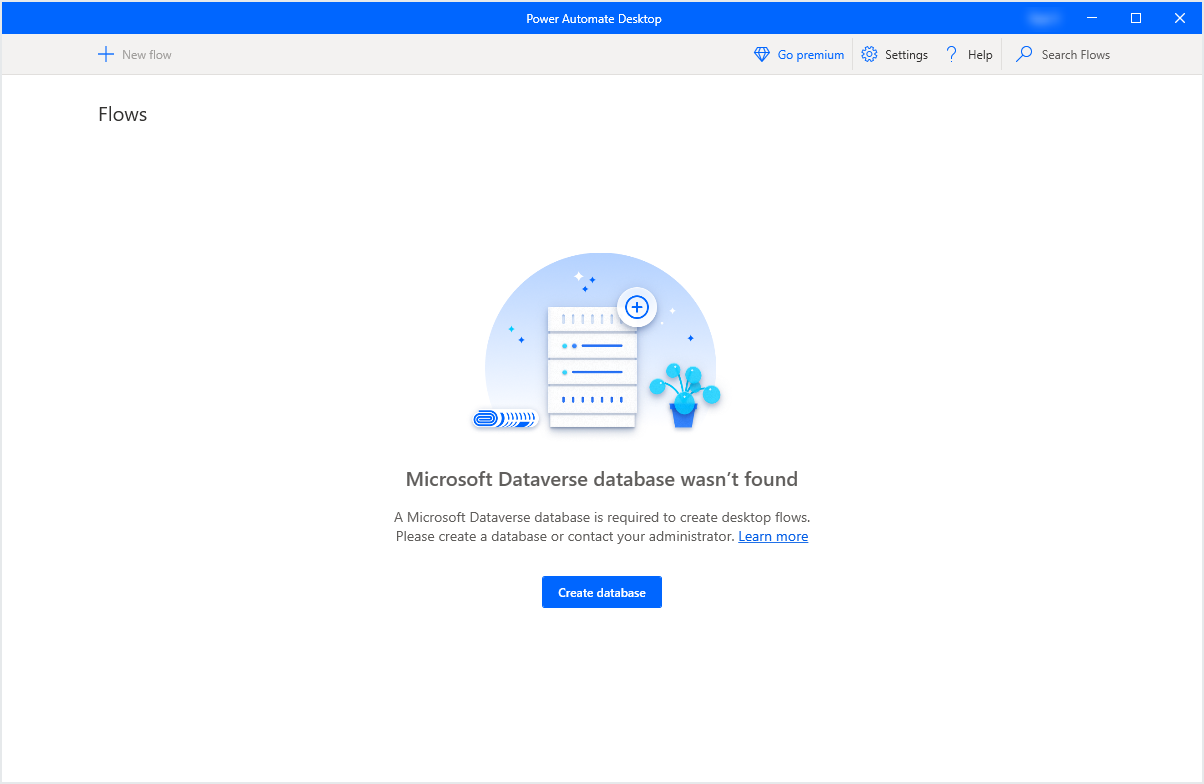
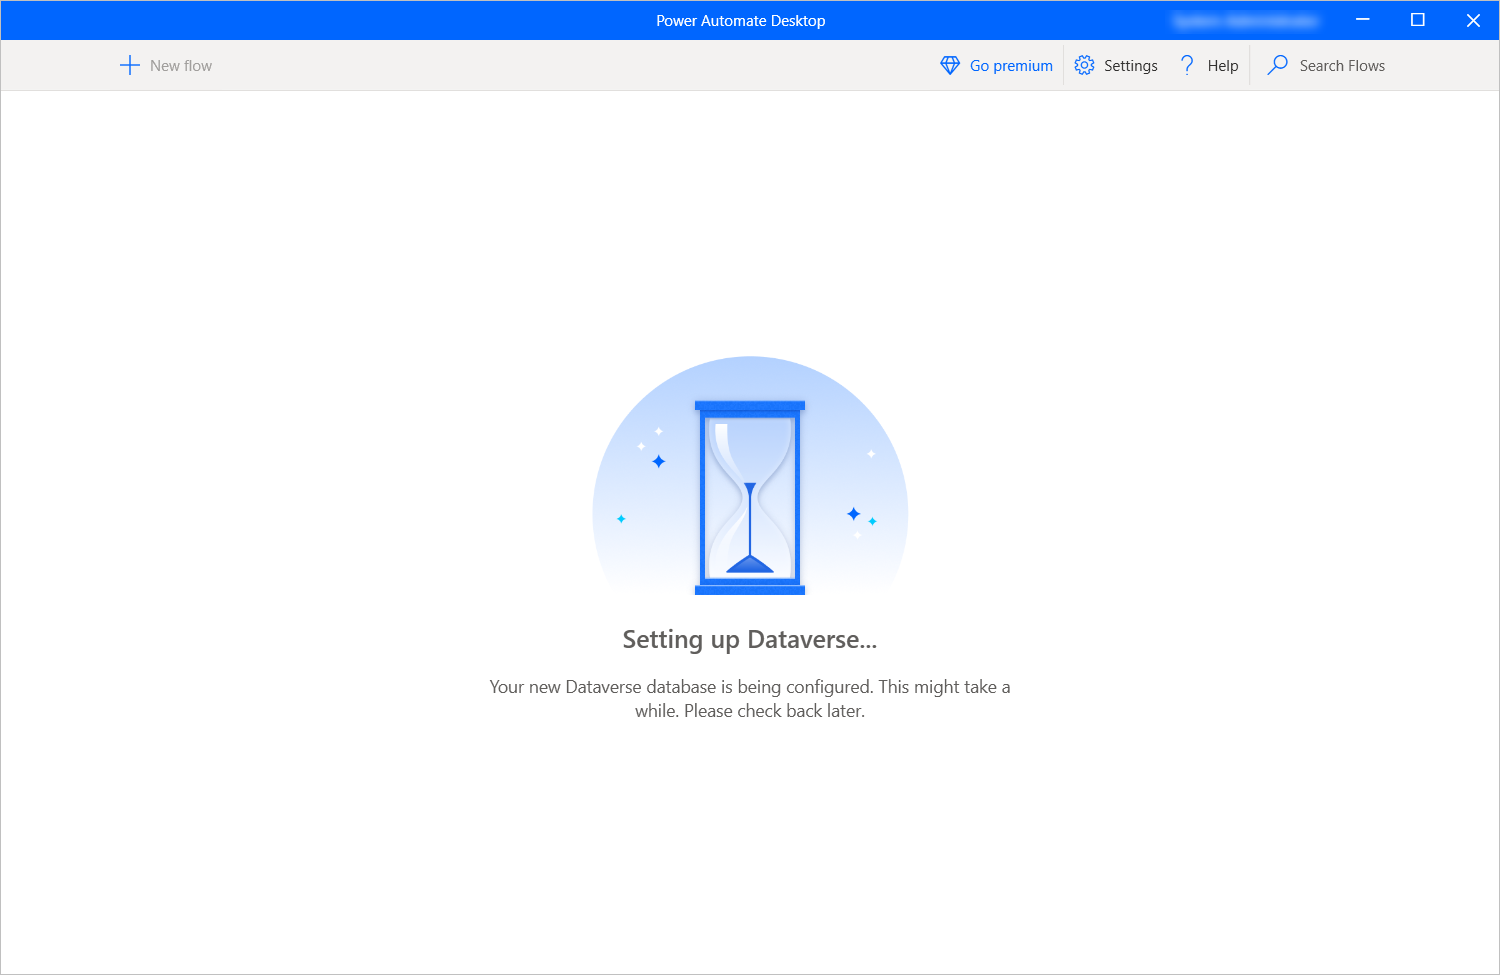
Updated content in Create a Microsoft Dataverse database

diff --git a/articles/desktop-flows/create-database.md b/articles/desktop-flows/create-database.md
@@ -33,7 +33,11 @@ If you are an administrator or if you would like to provide information to the a
 
 ## Create a Microsoft Dataverse database in Power Automate Desktop
 
-Administrators can create a Microsoft Dataverse database in Power Automate Desktop. After installing Power Automate Desktop, log in with an administrator account and select **Create database**.
+Administrators can create a Microsoft Dataverse database in Power Automate Desktop. 
+
+If you're using a free work or school account, the provisioning will start automatically after logging in with your account.
+
+If the connected account is a premium account, select **Create database** to create a Microsoft Dataverse database.
 
    ![Create dataverse database admin](./media/create-database/freeorg-create-db.png)
 
